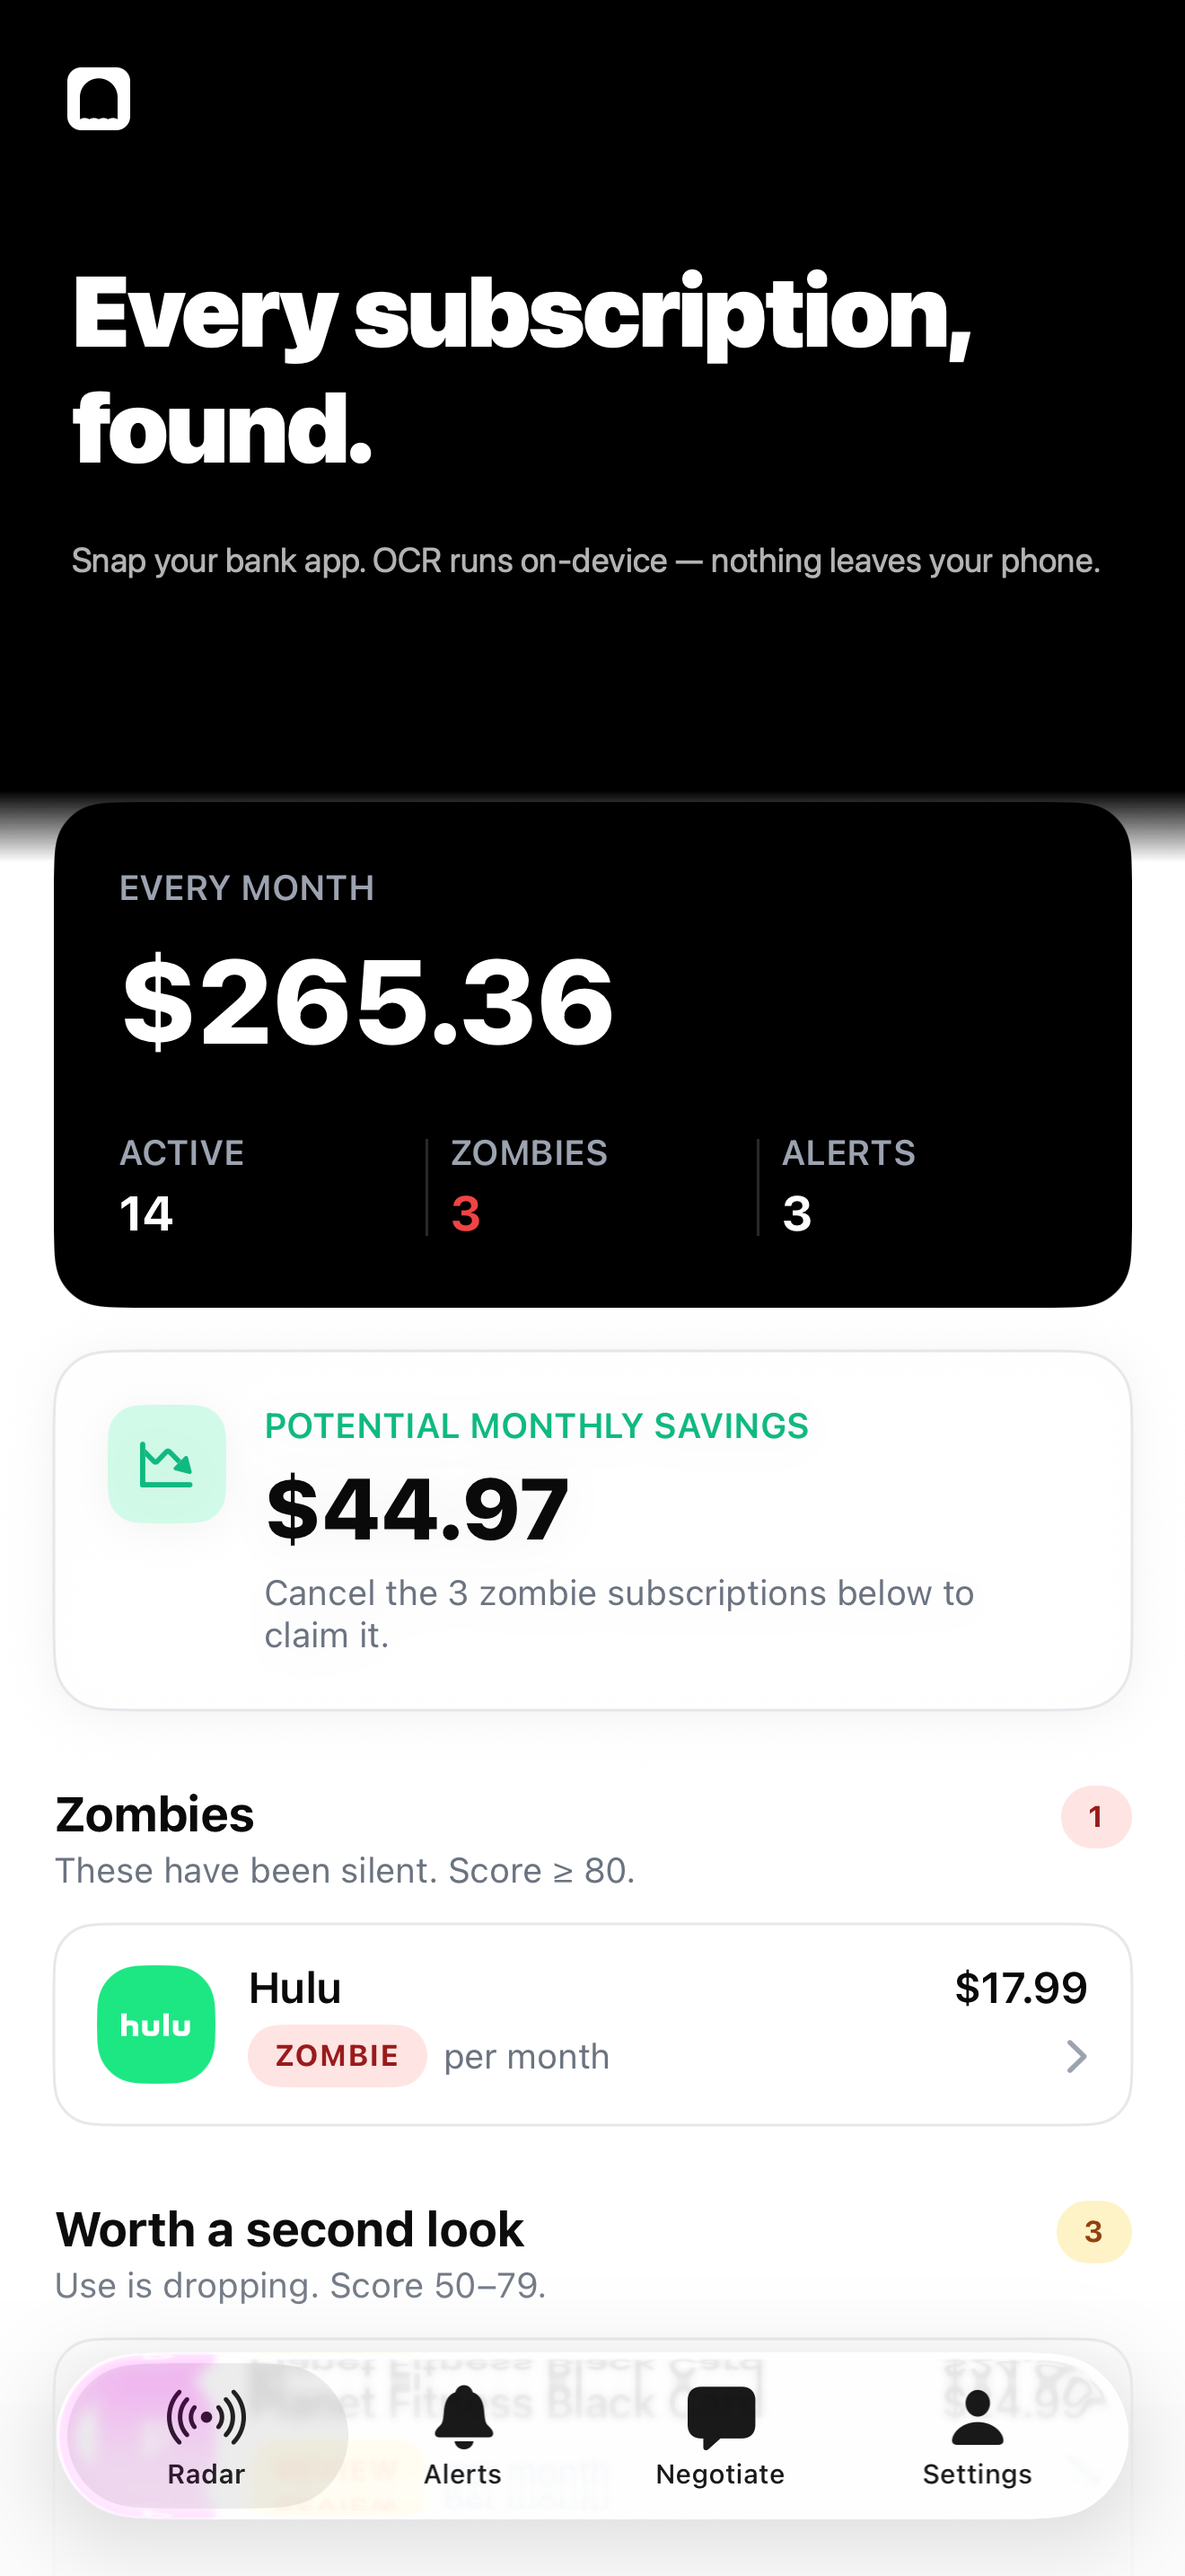
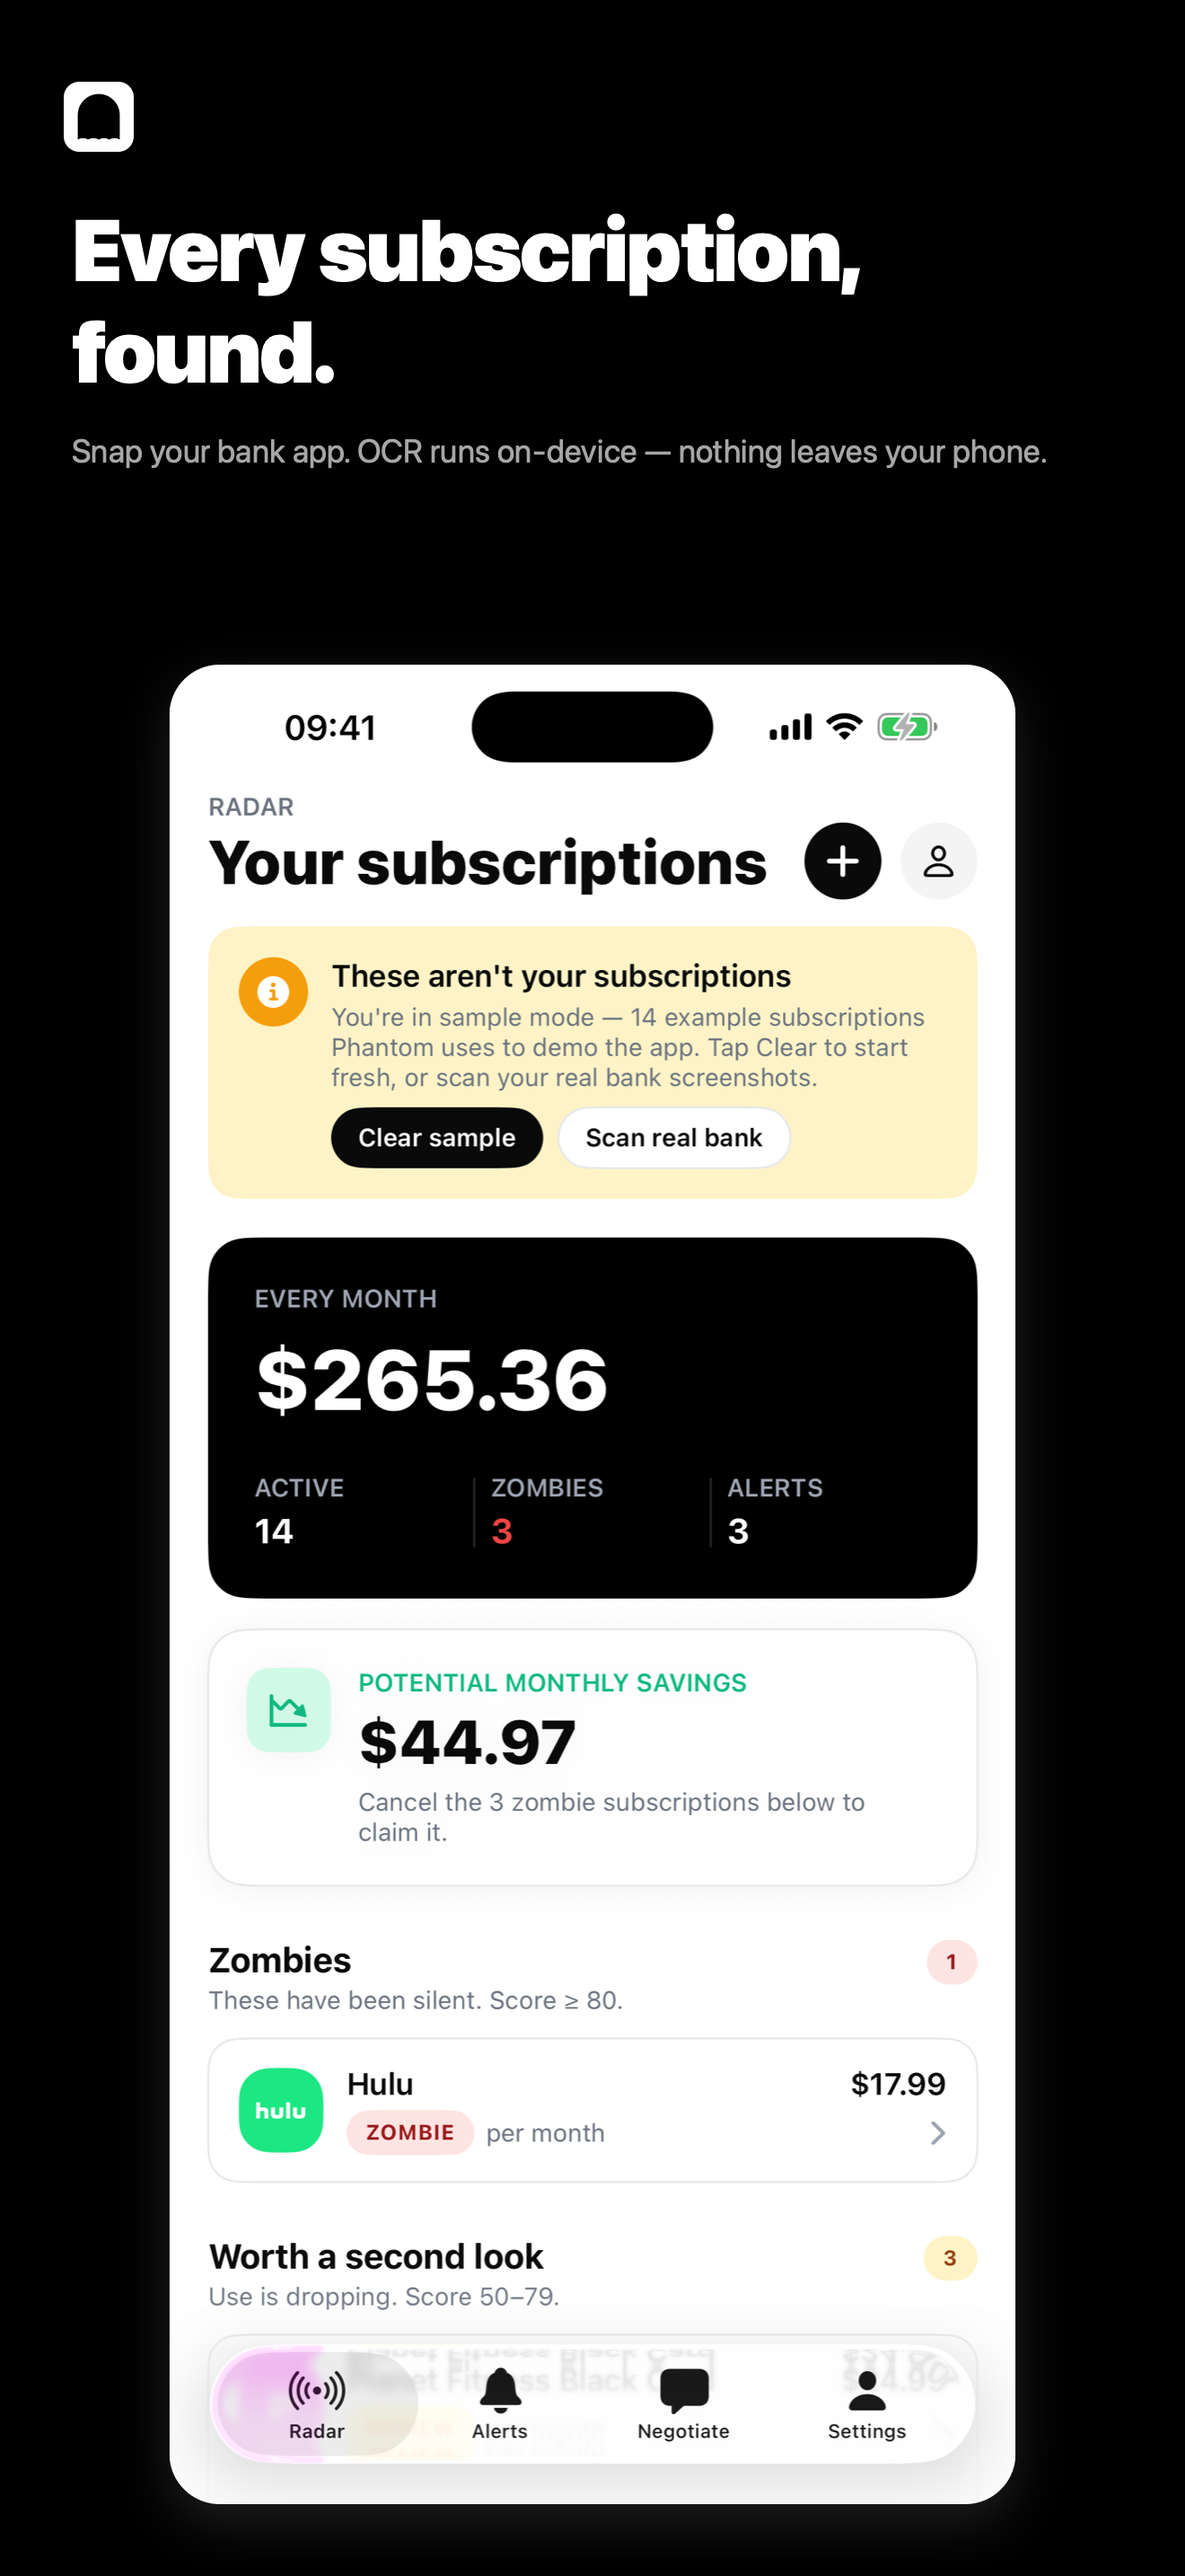
Marketing screenshots: floating-frame layout + Apple 9:41 status bar
Reworked layout per feedback that the previous black-overlay design
was clipping in-app content.

New design:
- Top 25% of canvas: solid Phantom-black panel with brand mark + big
  white headline + gray subtitle
- Bottom 70%: real app screenshot scaled to fit, centered horizontally,
  with rounded corners (56px radius) and a soft white drop shadow.
- 9:41 status bar (Apple's iconic App Store screenshot time, set via
  simctl status_bar override before re-capture)
- No content of the actual screenshot is covered or clipped.

Files:
- launch/store/screenshots-raw/   8 raw simulator captures
- launch/store/screenshots-final/ 8 marketing-ready PNGs (1320×2868)

diff --git a/launch/render-screenshots.swift b/launch/render-screenshots.swift
@@ -1,30 +1,35 @@
-// Adds Phantom-branded marketing overlays to App Store screenshots.
+// Renders App Store marketing screenshots: brand headline on top,
+// scaled-down screenshot (with rounded corners + drop shadow) floating
+// below on a solid Phantom-black background. No content of the actual app
+// is covered.
 //
-// Output: launch/store/screenshots-final/01..08.png (each 1320×2868, App Store 6.9" spec)
+// Output: launch/store/screenshots-final/01..08.png (each 1320×2868, 6.9" spec)
 //
 // Run from project root:  swift launch/render-screenshots.swift
 import AppKit
 import CoreGraphics
 import Foundation
 
-let inputDir = "launch/store/screenshots-69inch"
+let inputDir = "launch/store/screenshots-raw"
 let outputDir = "launch/store/screenshots-final"
 
-// Headline per screenshot. Top line = bold hero, bottom line = sub.
 let headlines: [(file: String, top: String, sub: String)] = [
-    ("01-welcome.png",          "$564 a year, gone\nwithout a fight.",  "The average American pays for 4.5 subs they never use. Phantom finds them."),
-    ("02-radar.png",            "Every subscription,\nfound.",          "Snap your bank app. OCR runs on-device — nothing leaves your phone."),
-    ("03-detail-peacock.png",   "Why it's a zombie.\nQuantified.",      "5-factor score from 0-100. Cancel the ones above 80."),
-    ("04-alerts.png",           "Notified 7 days\nbefore any price hike.", "We watch 50+ services. You hear about it before the bill."),
-    ("05-negotiate.png",        "Save without\ncancelling.",             "Up to $1,400/yr in retention discounts you didn't know to ask for."),
-    ("06-negotiate-sirius.png", "Proven retention\nscripts.",            "Tap to copy. Read it almost verbatim. 87% success on SiriusXM."),
-    ("07-dispute-form.png",     "EFTA-compliant\ndispute letters.",      "One tap = a legal letter for wrongful charges and forgotten trials."),
-    ("08-paywall.png",          "$3.99 a month.\nSaves you $47.",        "Phantom Pro pays for itself the first time it catches a forgotten sub."),
+    ("01-welcome.png",  "Find the money\nyou're losing.",     "The average American pays for 4.5 subs they never use."),
+    ("02-radar.png",    "Every subscription,\nfound.",         "Snap your bank app. OCR runs on-device — nothing leaves your phone."),
+    ("03-detail.png",   "Why it's a zombie.\nQuantified.",     "5-factor score from 0–100. Cancel the ones above 80."),
+    ("04-alerts.png",   "Notified 7 days\nbefore any price hike.", "We watch 50+ services. You hear about it before the bill."),
+    ("05-negotiate.png","Save without\ncancelling.",            "Up to $1,400/yr in retention discounts most people never ask for."),
+    ("06-script.png",   "Proven retention\nscripts.",            "Tap to copy. 87% success rate on SiriusXM. Read it almost verbatim."),
+    ("07-dispute.png",  "EFTA-compliant\ndispute letters.",      "One tap = a legal letter for wrongful charges and forgotten trials."),
+    ("08-paywall.png",  "$3.99 a month.\nSaves you $47.",        "Phantom Pro pays for itself the first time it catches a forgotten sub."),
 ]
 
-let canvasSize: CGFloat = 1320  // width
-let canvasHeight: CGFloat = 2868
-let topPanelHeight: CGFloat = 880  // height of the black marketing band at top — covers status bar + any in-app banners
+let canvasW: CGFloat = 1320
+let canvasH: CGFloat = 2868
+let topPanelH: CGFloat = 700           // headline area (text + brand mark)
+let screenshotGapTop: CGFloat = 40
+let screenshotMarginBottom: CGFloat = 80
+let screenshotCornerRadius: CGFloat = 56
 
 let fm = FileManager.default
 try? fm.createDirectory(atPath: outputDir, withIntermediateDirectories: true)
@@ -42,70 +47,91 @@ for (idx, item) in headlines.enumerated() {
     let colorSpace = CGColorSpaceCreateDeviceRGB()
     guard let ctx = CGContext(
         data: nil,
-        width: Int(canvasSize),
-        height: Int(canvasHeight),
+        width: Int(canvasW),
+        height: Int(canvasH),
         bitsPerComponent: 8,
         bytesPerRow: 0,
         space: colorSpace,
         bitmapInfo: CGImageAlphaInfo.premultipliedLast.rawValue
     ) else { continue }
 
-    // 1. Draw original screenshot full-size (it's already 1320×2868)
-    ctx.draw(originalCG, in: CGRect(x: 0, y: 0, width: canvasSize, height: canvasHeight))
-
-    // 2. Black panel over top portion (covers status bar + app header)
+    // Solid Phantom-black background
     ctx.setFillColor(red: 0, green: 0, blue: 0, alpha: 1)
-    let panelRect = CGRect(x: 0, y: canvasHeight - topPanelHeight, width: canvasSize, height: topPanelHeight)
-    ctx.fill(panelRect)
+    ctx.fill(CGRect(x: 0, y: 0, width: canvasW, height: canvasH))
 
-    // 3. Subtle gradient bottom edge of panel (smooth transition)
-    let gradColors = [
-        CGColor(red: 0, green: 0, blue: 0, alpha: 1),
-        CGColor(red: 0, green: 0, blue: 0, alpha: 0),
-    ] as CFArray
-    if let grad = CGGradient(colorsSpace: colorSpace, colors: gradColors, locations: [0, 1]) {
-        let gradTop = canvasHeight - topPanelHeight
-        ctx.drawLinearGradient(
-            grad,
-            start: CGPoint(x: canvasSize / 2, y: gradTop),
-            end: CGPoint(x: canvasSize / 2, y: gradTop - 80),
-            options: []
-        )
-    }
+    // ----- Top: brand mark + headline + sub -----
+    // (CoreGraphics uses bottom-left origin; "top of canvas" = high y)
 
-    // 4. Phantom mark (small ghost) in top-left of panel
-    drawPhantomMark(ctx: ctx, center: CGPoint(x: 110, y: canvasHeight - 110), size: 70)
+    // Ghost mark in top-left of canvas
+    drawPhantomMark(ctx: ctx, center: CGPoint(x: 110, y: canvasH - 130), size: 78)
 
-    // 5. Headline text — top line BIG, sub line smaller
-    let topFont = NSFont.systemFont(ofSize: 110, weight: .black)
-    let subFont = NSFont.systemFont(ofSize: 38, weight: .regular)
-
+    // Headline (huge, bold)
+    let topFont = NSFont.systemFont(ofSize: 96, weight: .black)
+    let subFont = NSFont.systemFont(ofSize: 36, weight: .regular)
     let topAttrs: [NSAttributedString.Key: Any] = [
         .font: topFont,
         .foregroundColor: NSColor.white,
-        .kern: -2.0,
+        .kern: -1.5,
     ]
     let subAttrs: [NSAttributedString.Key: Any] = [
         .font: subFont,
-        .foregroundColor: NSColor(white: 1, alpha: 0.7),
+        .foregroundColor: NSColor(white: 1, alpha: 0.65),
     ]
-
     drawText(
         ctx: ctx,
         text: item.top,
         attrs: topAttrs,
-        rect: CGRect(x: 80, y: canvasHeight - 560, width: canvasSize - 160, height: 280),
+        rect: CGRect(x: 80, y: canvasH - 470, width: canvasW - 160, height: 250),
         align: .left,
-        lineSpacing: -8
+        lineSpacing: -10
     )
     drawText(
         ctx: ctx,
         text: item.sub,
         attrs: subAttrs,
-        rect: CGRect(x: 80, y: canvasHeight - 760, width: canvasSize - 160, height: 160),
+        rect: CGRect(x: 80, y: canvasH - 620, width: canvasW - 160, height: 140),
         align: .left,
         lineSpacing: 6
     )
+
+    // ----- Bottom: scaled screenshot with rounded corners + shadow -----
+    // Compute target size that fits below the headline area
+    let availableH = canvasH - topPanelH - screenshotGapTop - screenshotMarginBottom
+    let originalRatio = CGFloat(originalCG.width) / CGFloat(originalCG.height)
+    let screenshotH = availableH
+    let screenshotW = screenshotH * originalRatio
+    let screenshotX = (canvasW - screenshotW) / 2
+    let screenshotY = screenshotMarginBottom
+    let screenshotRect = CGRect(x: screenshotX, y: screenshotY, width: screenshotW, height: screenshotH)
+
+    // Soft drop shadow
+    ctx.saveGState()
+    ctx.setShadow(
+        offset: CGSize(width: 0, height: -20),
+        blur: 60,
+        color: CGColor(red: 1, green: 1, blue: 1, alpha: 0.12)
+    )
+
+    // Clip to rounded rect (this clips the screenshot AND the shadow draws around it)
+    let roundedPath = CGPath(
+        roundedRect: screenshotRect,
+        cornerWidth: screenshotCornerRadius,
+        cornerHeight: screenshotCornerRadius,
+        transform: nil
+    )
+
+    // Fill the rounded shape first (makes the shadow render)
+    ctx.addPath(roundedPath)
+    ctx.setFillColor(red: 0.1, green: 0.1, blue: 0.1, alpha: 1)
+    ctx.fillPath()
+    ctx.restoreGState()
+
+    // Now draw the actual screenshot, clipped to the same rounded shape
+    ctx.saveGState()
+    ctx.addPath(roundedPath)
+    ctx.clip()
+    ctx.draw(originalCG, in: screenshotRect)
+    ctx.restoreGState()
 
     // Save
     guard let image = ctx.makeImage() else { continue }
@@ -135,7 +161,6 @@ func drawText(
 
     let attributedString = NSAttributedString(string: text, attributes: attrs)
 
-    // Use NSGraphicsContext to draw NSAttributedString
     let prev = NSGraphicsContext.current
     NSGraphicsContext.current = NSGraphicsContext(cgContext: ctx, flipped: false)
     attributedString.draw(in: rect)
@@ -143,14 +168,14 @@ func drawText(
 }
 
 func drawPhantomMark(ctx: CGContext, center: CGPoint, size: CGFloat) {
-    // Black rounded square
+    // White rounded square base
     ctx.setFillColor(red: 1, green: 1, blue: 1, alpha: 1)
     let bgRect = CGRect(x: center.x - size / 2, y: center.y - size / 2, width: size, height: size)
     let bgPath = CGPath(roundedRect: bgRect, cornerWidth: size * 0.22, cornerHeight: size * 0.22, transform: nil)
     ctx.addPath(bgPath)
     ctx.fillPath()
 
-    // Ghost in black (inverted: white square, black ghost)
+    // Black ghost inside
     let ghostW = size * 0.6
     let ghostH = size * 0.65
     let topR = ghostW / 2
